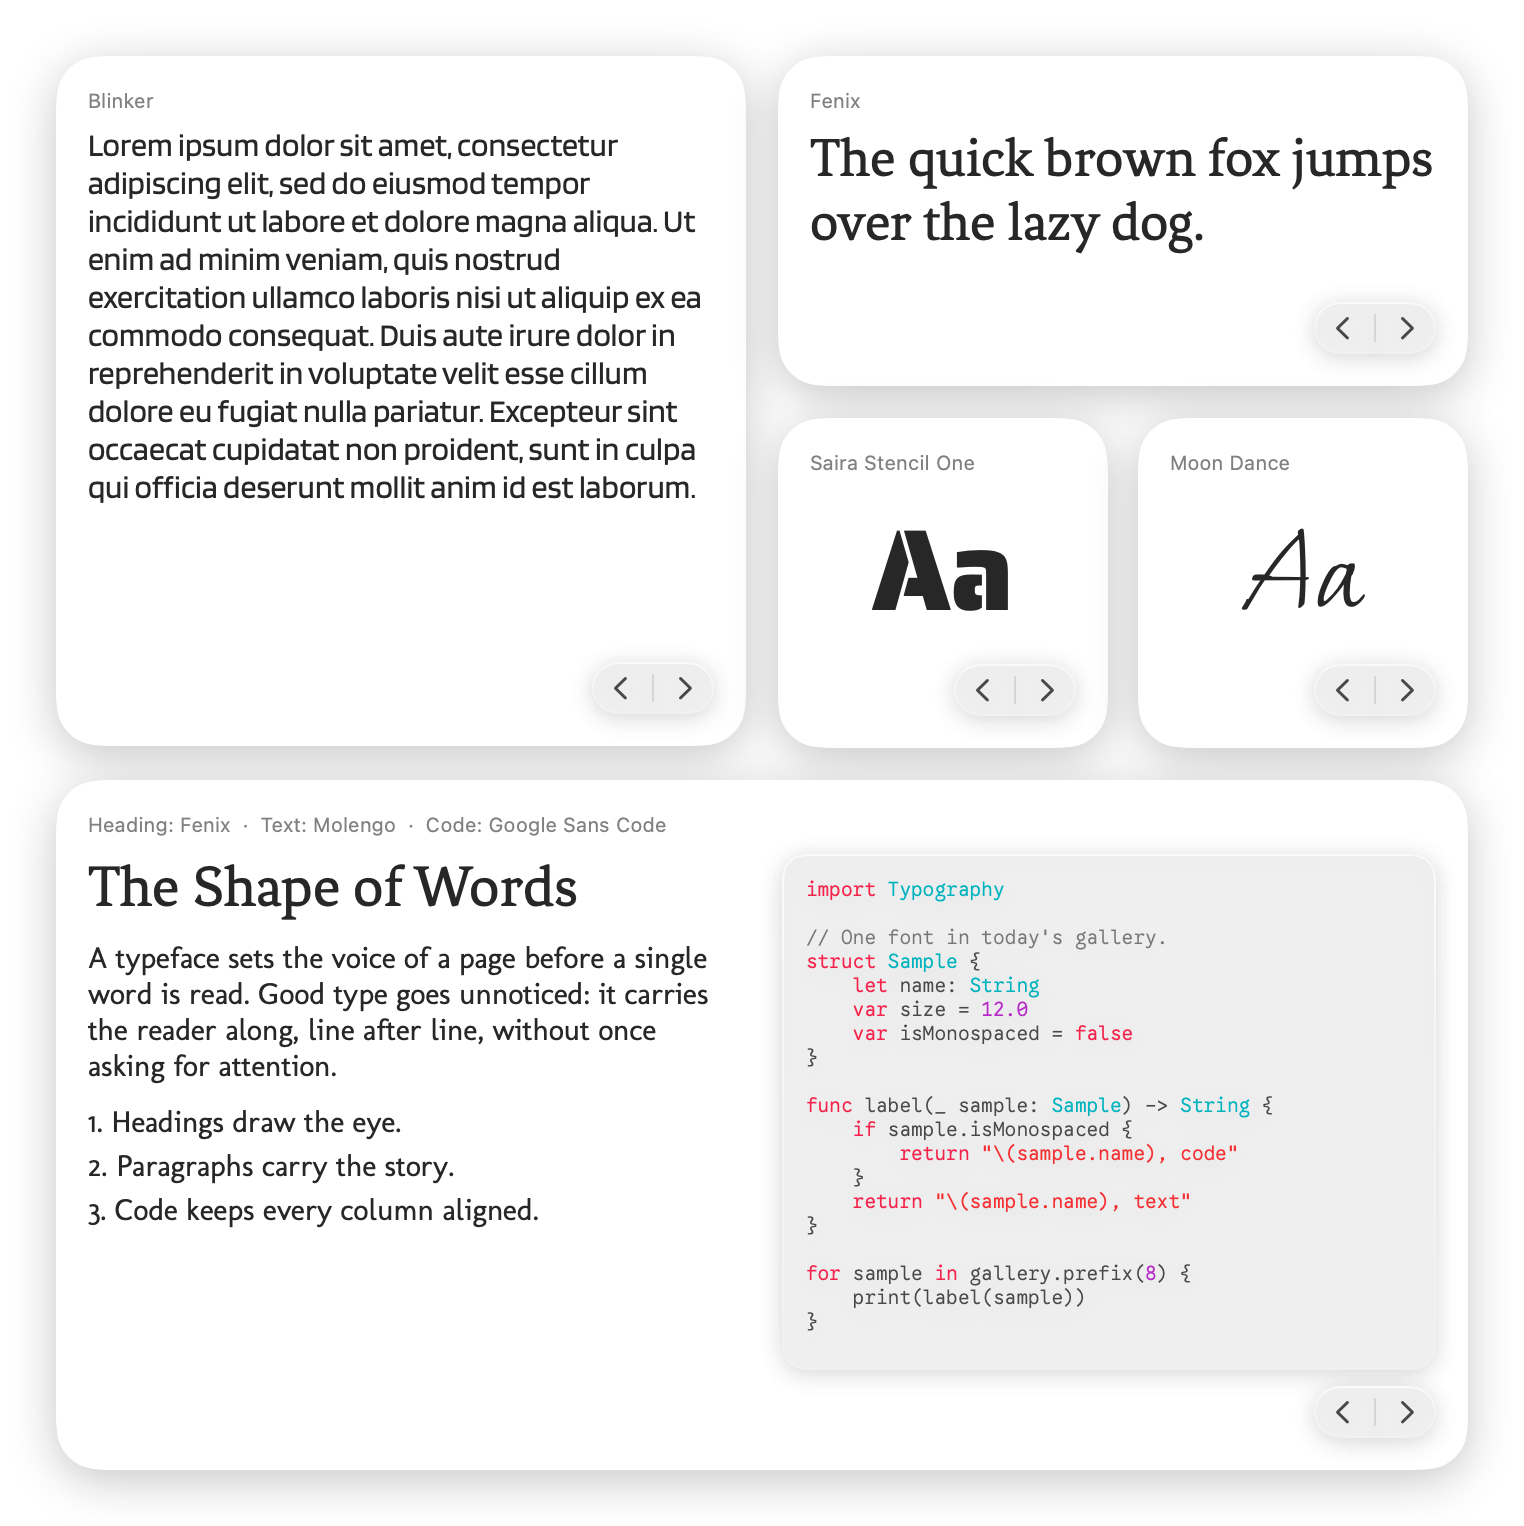
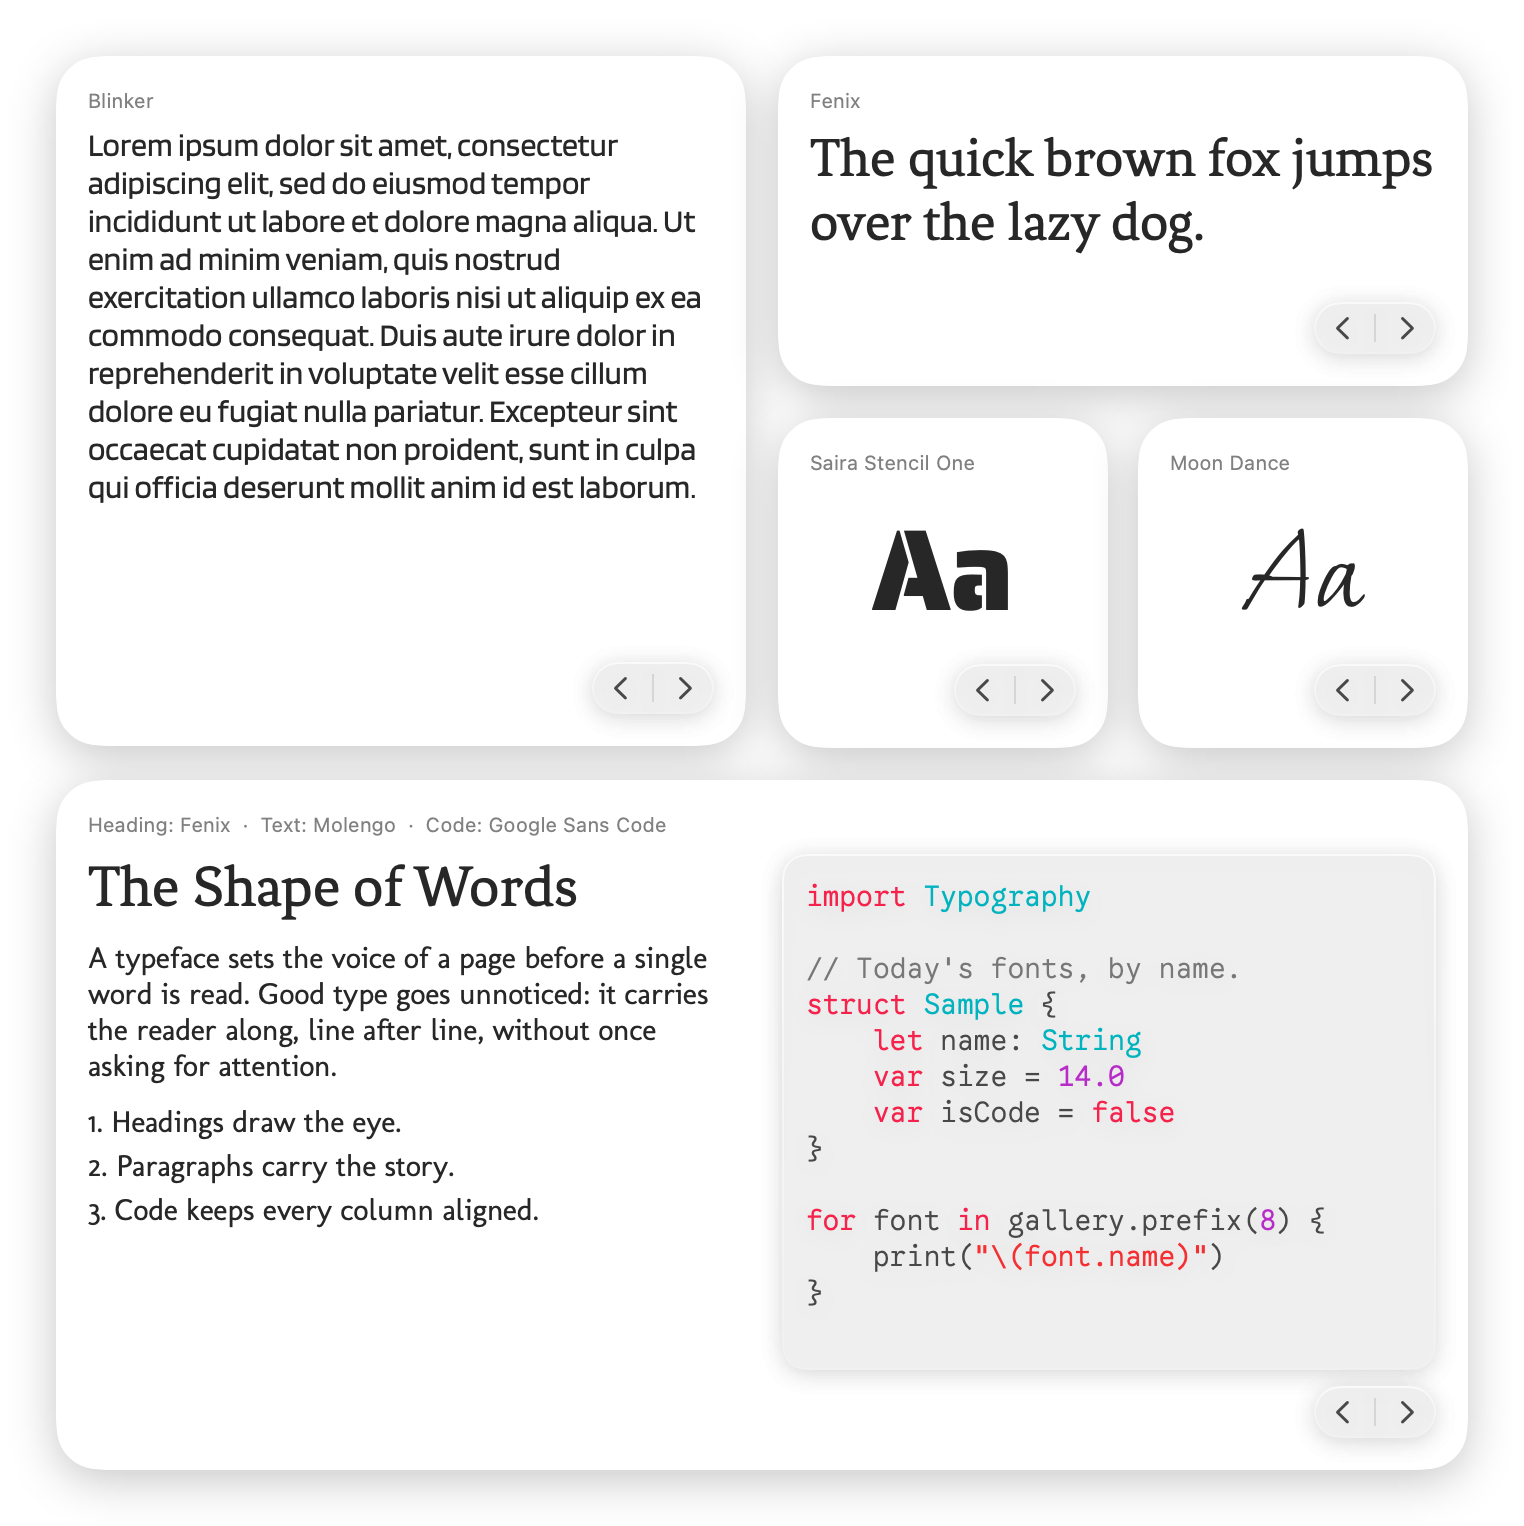
Set the widget's code at 14 points
The code sample is shorter, and its lines narrower, so that it fits its
pane at the larger size in the widest of the monospaced fonts.

Changed region(s): [[0.5243, 0.5544, 0.8327, 0.8624]]

diff --git a/HomebrewFontGalleryWidget/FontGalleryView.swift b/HomebrewFontGalleryWidget/FontGalleryView.swift
@@ -61,25 +61,19 @@ enum Samples {
         the reader along, line after line, without once asking for attention.
         """
     static let list = ["Headings draw the eye.", "Paragraphs carry the story.", "Code keeps every column aligned."]
+    /// Short enough, and in lines narrow enough, to fit its pane at 14 points in a wide font.
     static let code = """
         import Typography
 
-        // One font in today's gallery.
+        // Today's fonts, by name.
         struct Sample {
             let name: String
-            var size = 12.0
-            var isMonospaced = false
+            var size = 14.0
+            var isCode = false
         }
 
-        func label(_ sample: Sample) -> String {
-            if sample.isMonospaced {
-                return "\\(sample.name), code"
-            }
-            return "\\(sample.name), text"
-        }
-
-        for sample in gallery.prefix(8) {
-            print(label(sample))
+        for font in gallery.prefix(8) {
+            print("\\(font.name)")
         }
         """
 }
@@ -240,8 +234,8 @@ private struct DocumentSample: View {
 
                 linked(to: code) {
                     HighlightedCode(code: Samples.code)
-                        .font(code?.font(12) ?? .system(size: 12, design: .monospaced))
-                        .minimumScaleFactor(0.7)
+                        .font(code?.font(14) ?? .system(size: 14, design: .monospaced))
+                        .minimumScaleFactor(0.85)
                         .padding(12)
                         .frame(maxWidth: .infinity, maxHeight: .infinity, alignment: .topLeading)
                         .glassPanel(cornerRadius: 12)
